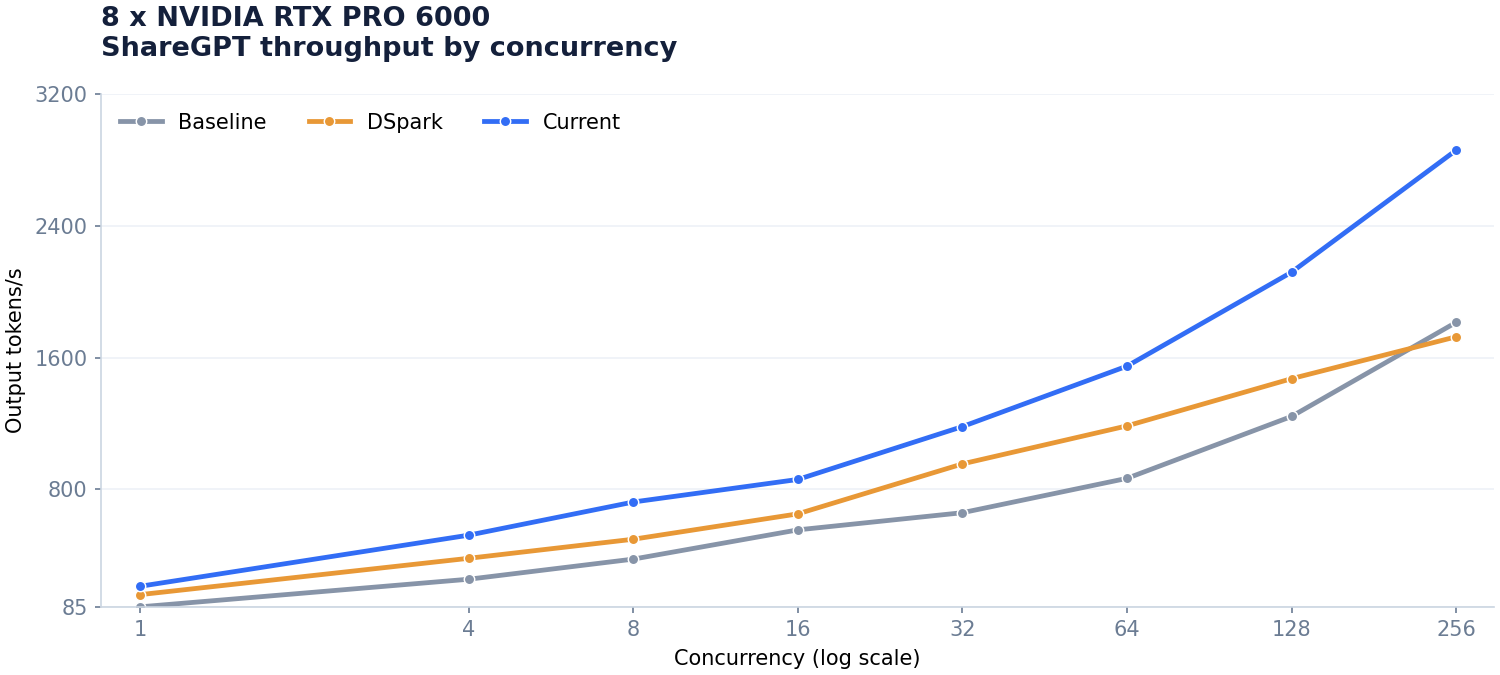
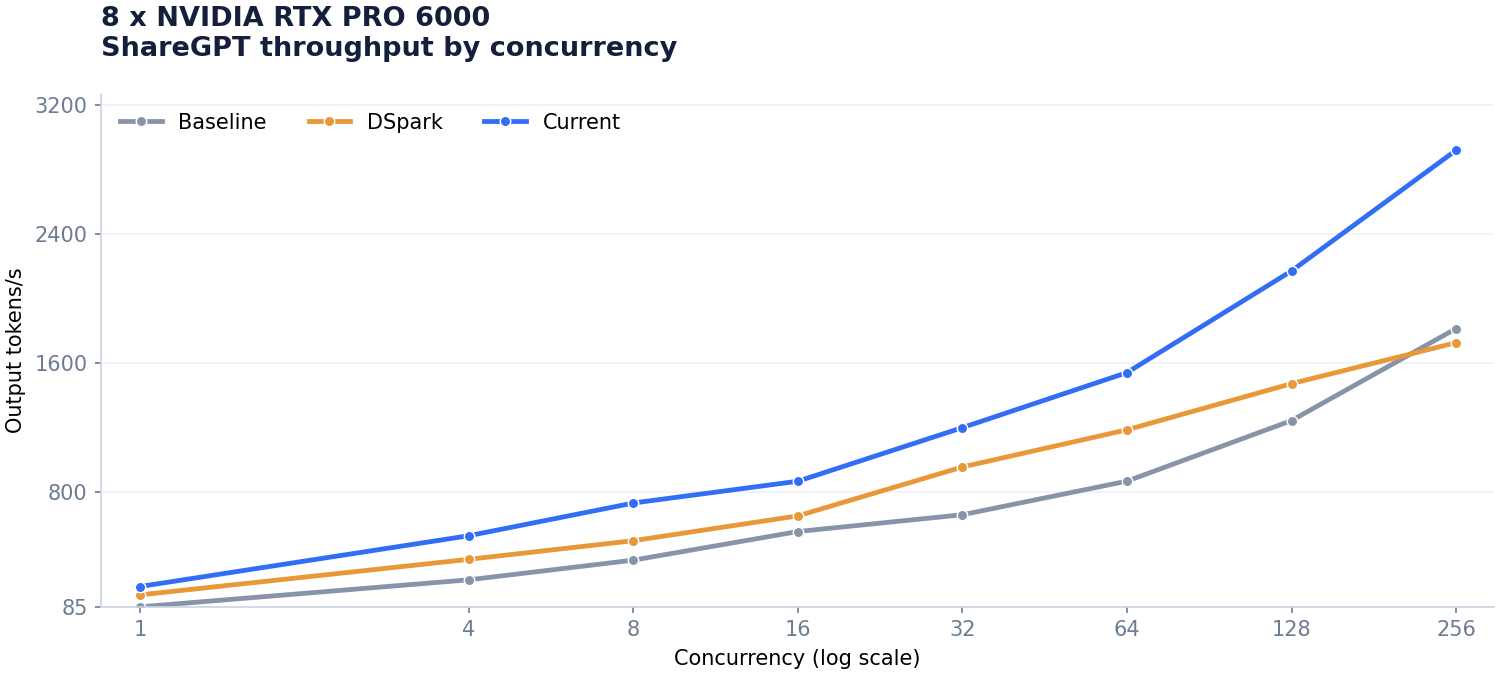
Shard draft sampling

diff --git a/8-nvidia-rtx-pro-6000/CHANGELOG.md b/8-nvidia-rtx-pro-6000/CHANGELOG.md
@@ -4,9 +4,10 @@ The patch is cumulative against `vllm/vllm-openai:v0.32.0`; every working milest
 
 FlashInfer 0.7.1 replaces the bundled 0.7.0.post1 for runtime page-size support, and both the sm120 compatibility patch and `--block-size 64` are required.
 
-## 15. Wider grouped experts
+## 16. Sharded draft sampling
 
-- Extend the grouped expert path in diff.patch from four to sixteen rows because it is faster than DeepGEMM for those batches.
+- Compute DSpark's logits and Markov bias per vocabulary shard with diff.patch and enable `use_local_argmax_reduction` so GPUs exchange only maximum scores and token IDs.
+-    --speculative-config '{"method":"dspark","num_speculative_tokens":3,"revision":"1bae0e1088993b9b82de08f59de5be5a34e42170","enable_adaptive_verification":true}' \
 
 Requirements, on a fresh vLLM image:
 
@@ -34,20 +35,20 @@ vllm serve deepseek-ai/DeepSeek-V4.1-Flash-1017 \
     --reasoning-parser deepseek_v41 \
     --mm-encoder-tp-mode data \
     --block-size 64 \
-    --speculative-config '{"method":"dspark","num_speculative_tokens":3,"revision":"1bae0e1088993b9b82de08f59de5be5a34e42170","enable_adaptive_verification":true}' \
+    --speculative-config '{"method":"dspark","num_speculative_tokens":3,"revision":"1bae0e1088993b9b82de08f59de5be5a34e42170","enable_adaptive_verification":true,"use_local_argmax_reduction":true}' \
     --enable-expert-parallel
 ```
 
 | Concurrency | Prompts | Output t/s | p95 TTFT (ms) | p95 TPOT (ms) |
 |---:|---:|---:|---:|---:|
-| 1 | 128 | 209.9 | 127.3 | 5.89 |
-| 4 | 128 | 521.0 | 110.6 | 9.27 |
-| 8 | 128 | 722.4 | 209.9 | 12.94 |
-| 16 | 128 | 859.5 | 279.6 | 22.26 |
-| 32 | 128 | 1180.9 | 388.0 | 31.87 |
-| 64 | 128 | 1548.2 | 795.2 | 48.56 |
-| 128 | 256 | 2119.1 | 1424.1 | 73.18 |
-| 256 | 512 | 2860.3 | 2741.0 | 141.28 |
+| 1 | 128 | 211.3 | 127.7 | 5.77 |
+| 4 | 128 | 527.1 | 104.0 | 9.50 |
+| 8 | 128 | 730.2 | 208.9 | 12.90 |
+| 16 | 128 | 865.6 | 282.0 | 22.64 |
+| 32 | 128 | 1198.6 | 395.2 | 30.31 |
+| 64 | 128 | 1540.4 | 796.1 | 42.77 |
+| 128 | 256 | 2171.9 | 1574.8 | 71.96 |
+| 256 | 512 | 2921.9 | 2585.6 | 136.24 |
 
 ## Accepted progress
 
@@ -67,4 +68,5 @@ vllm serve deepseek-ai/DeepSeek-V4.1-Flash-1017 \
 | 12 | Host reduce-scatter | 194.2 | [`d6c2e43`](https://github.com/alvarobartt/DeepSeek-V4.1-Flash-RTX-PRO-6000/tree/d6c2e436e35434ee70c24ac354db8cbd22f86df8) |
 | 13 | Wider host reductions | 194.5 | [`2a5cf80`](https://github.com/alvarobartt/DeepSeek-V4.1-Flash-RTX-PRO-6000/tree/2a5cf807aa60bccd4f3ced6a49b39ee1c5f25970) |
 | 14 | Grouped expert GEMMs | 209.0 | [`3f93e68`](https://github.com/alvarobartt/DeepSeek-V4.1-Flash-RTX-PRO-6000/tree/3f93e6858c94c6eee506cd5331e23bde65f6e38b) |
-| 15 | Wider grouped experts | 209.9 | This revision |
+| 15 | Wider grouped experts | 209.9 | [`a2b480a`](https://github.com/alvarobartt/DeepSeek-V4.1-Flash-RTX-PRO-6000/tree/a2b480a3526a3a235f7113b630650516733f658f) |
+| 16 | Sharded draft sampling | 211.3 | This revision |

diff --git a/README.md b/README.md
@@ -15,14 +15,14 @@ Validated serving recipes for four and eight GPUs, using the checkpoint's origin
 
 | Concurrency | Baseline t/s [^8gpu-baseline] | Baseline + DSpark t/s | Current t/s |
 |---:|---:|---:|---:|
-| 1 | 85.0 | 159.2 (+87.3%) | **209.9 (+31.8%)** |
-| 4 | 253.2 | 380.4 (+50.2%) | **521.0 (+37.0%)** |
-| 8 | 375.4 | 496.2 (+32.2%) | **722.4 (+45.6%)** |
-| 16 | 553.1 | 650.5 (+17.6%) | **859.5 (+32.1%)** |
-| 32 | 657.4 | 954.1 (+45.1%) | **1180.9 (+23.8%)** |
-| 64 | 866.2 | 1185.0 (+36.8%) | **1548.2 (+30.6%)** |
-| 128 | 1242.4 | 1471.9 (+18.5%) | **2119.1 (+44.0%)** |
-| 256 | 1814.1 | 1726.3 (-4.8%) | **2860.3 (+65.7%)** |
+| 1 | 85.0 | 159.2 (+87.3%) | **211.3 (+32.7%)** |
+| 4 | 253.2 | 380.4 (+50.2%) | **527.1 (+38.6%)** |
+| 8 | 375.4 | 496.2 (+32.2%) | **730.2 (+47.2%)** |
+| 16 | 553.1 | 650.5 (+17.6%) | **865.6 (+33.1%)** |
+| 32 | 657.4 | 954.1 (+45.1%) | **1198.6 (+25.6%)** |
+| 64 | 866.2 | 1185.0 (+36.8%) | **1540.4 (+30.0%)** |
+| 128 | 1242.4 | 1471.9 (+18.5%) | **2171.9 (+47.6%)** |
+| 256 | 1814.1 | 1726.3 (-4.8%) | **2921.9 (+69.3%)** |
 
 ![Accepted ShareGPT c1 throughput](8-nvidia-rtx-pro-6000/throughput.png)
 
